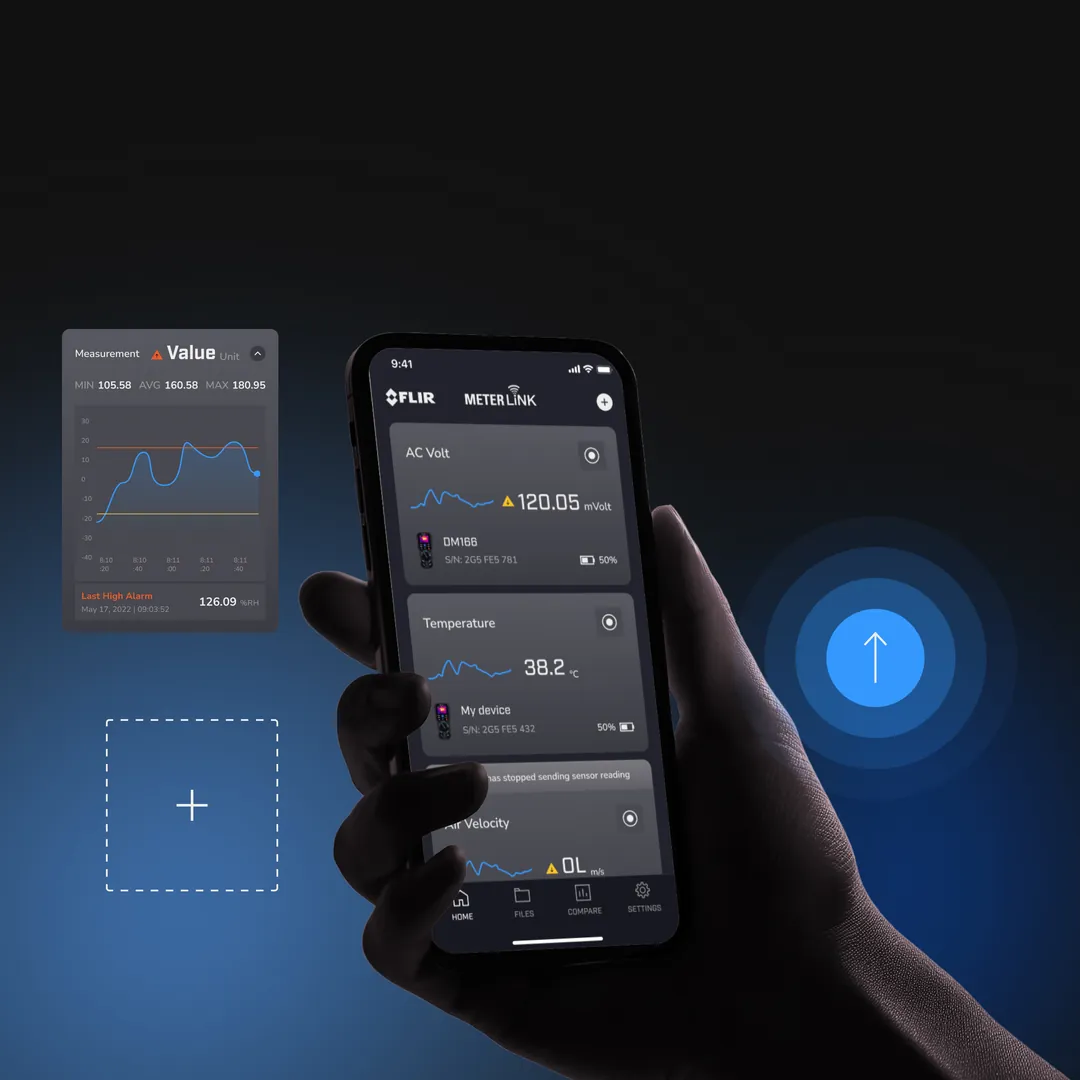
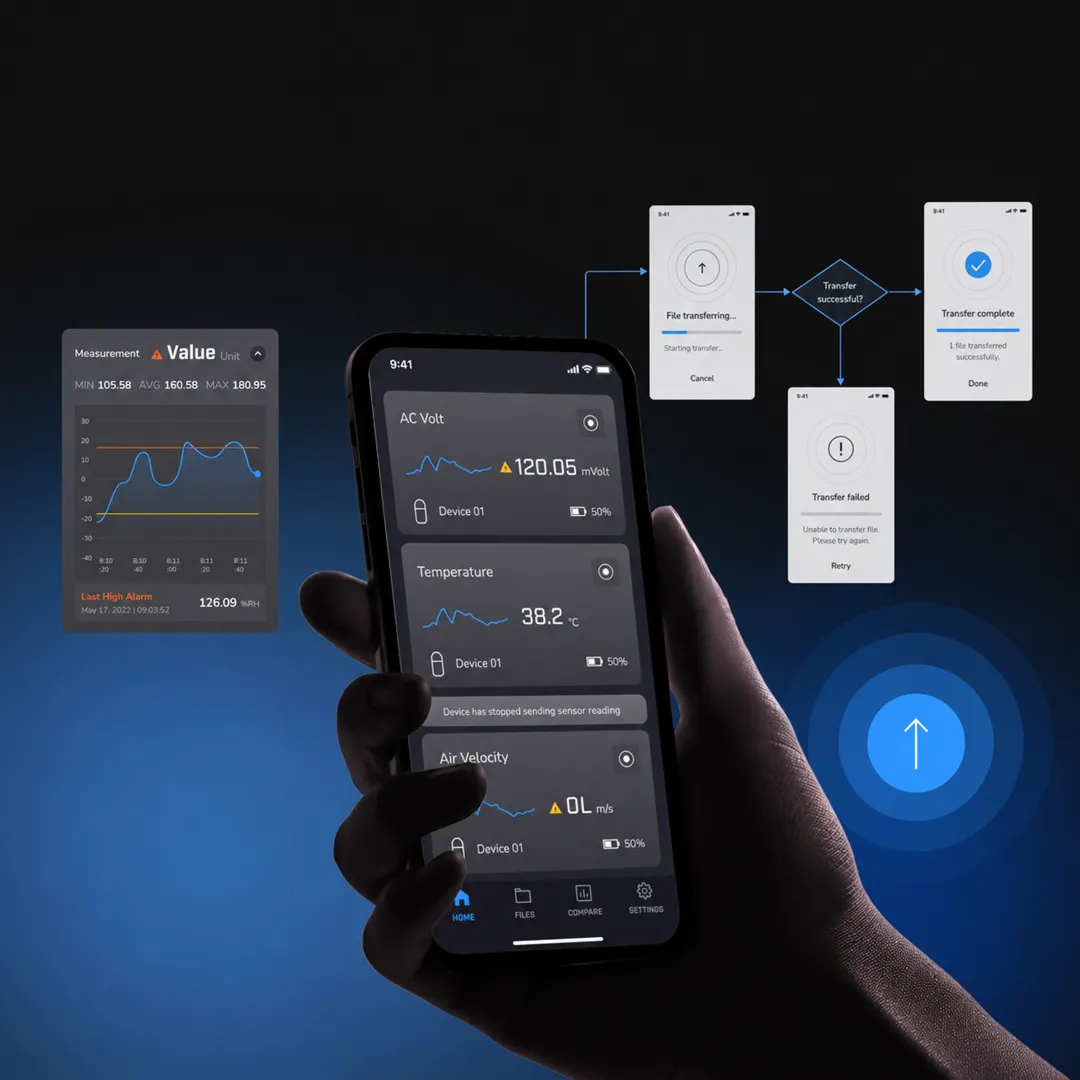
What we do: Office Power carousel (3 slides + KPIs); Mockups gets three new METERLiNK images
Office Power - AI product is now clickable and swaps the In-house panel to its own
carousel. Images compressed to 1080px webp (OP ~25KB, METERLiNK ~40KB from 3.9MB PNGs).

diff --git a/design/index.html b/design/index.html
@@ -426,6 +426,16 @@ section{padding:clamp(72px,10vw,140px) 0;scroll-margin-top:72px}
 .rs-t span{display:block;color:#3FC6F2}
 .rs-t.rs-white span{color:#fff}
 .rs-t.rs-violet span{color:#9C95F7}
+/* light artwork (Office Power): ink titles, indigo second line, KPI row under the title */
+.wwd-visual .rs[hidden]{display:none}
+.rs-light .rs-t{color:#1B2748}
+.rs-light .rs-t span{color:#3B55C4}
+.rs-light .rs-count{color:#1B2748}
+.rs-kpis{position:absolute;left:5.9%;top:21%;display:flex;gap:7.5cqi;color:#1B2748}
+.rs-kpis b{display:block;font-size:max(18px,6.6cqi);font-weight:600;line-height:1;letter-spacing:-.01em;white-space:nowrap}
+.rs-kpis small{margin-left:.25em;font-size:max(9px,2.3cqi);font-weight:600}
+.rs-kpis span{display:block;margin-top:.55em;font-size:max(9px,2.3cqi);font-weight:500;color:#6B7590;white-space:nowrap}
+html[lang="zh-Hant"] .rs-kpis span{font-size:max(9px,2.9cqi)}
 .rs-pains{list-style:none;margin:0;padding:0}
 .rs-pains li{position:absolute;width:42.7%;height:7.7%;display:grid;place-items:center;text-align:center;
   color:#fff;font-weight:600;font-size:max(9px,2.3cqi);line-height:1.1}
@@ -962,14 +972,19 @@ html[lang="zh-Hant"] .process-heading.kick{font-size:11px}
 <div class="rs-slide" aria-hidden="true" style="background:linear-gradient(#012e47,#01253b)"><div class="rs-art"><img src="assets/research-2.webp" alt="From the old app through user flows to the redesigned Genome Cache" width="1080" height="1080" loading="lazy"><p class="rs-t">Turn friction<span>into discovery.</span></p><ol class="rs-steps"><li style="left:19.7%">UX Research</li><li style="left:50%">Deep Focus</li><li style="left:80.2%">UI Design System</li></ol></div></div>
 <div class="rs-slide" aria-hidden="true" style="background:linear-gradient(#01263c,#002235)"><div class="rs-art"><img src="assets/research-3.webp" alt="The redesigned Genome Cache: quiz, scientist cards and rewards" width="1080" height="1080" loading="lazy"><p class="rs-t">Designed for<span>continued discovery.</span></p><div class="rs-stats"><div style="left:28.5%"><b>+40%</b><span>Time spent in app</span></div><div style="left:71.7%"><b>4.8</b><span>User CSAT score</span></div></div></div></div>
 </div><div class="rs-nav"><button type="button" class="rs-prev" aria-label="Previous slide"><svg viewBox="0 0 24 24" aria-hidden="true"><path d="M15 6l-6 6 6 6"/></svg></button><span class="rs-count" data-noi18n aria-live="polite">1 / 3</span><button type="button" class="rs-next" aria-label="Next slide"><svg viewBox="0 0 24 24" aria-hidden="true"><path d="M9 6l6 6-6 6"/></svg></button></div></div></figure><figure class="svc-media" id="svc-visual-1" aria-hidden="true"><div class="svc-image graphic rs" aria-roledescription="carousel" aria-label="FLIR METERLiNK design story"><div class="rs-stage">
-<div class="rs-slide on" aria-hidden="false" style="background:linear-gradient(#121212,#1d2b3e)"><div class="rs-art"><img src="assets/design-1.webp" alt="FLIR METERLiNK app held in hand with a measurement card" width="1080" height="1080"><p class="rs-t rs-white">Complex data.<span>Clear interfaces.</span></p></div></div>
-<div class="rs-slide" aria-hidden="true" style="background:linear-gradient(#101111,#163056)"><div class="rs-art"><img src="assets/design-2.webp" alt="METERLiNK UI components laid out as a kit" width="1080" height="1080" loading="lazy"><p class="rs-t rs-white">Many components.<span>One shared language.</span></p></div></div>
-</div><div class="rs-nav"><button type="button" class="rs-prev" aria-label="Previous slide"><svg viewBox="0 0 24 24" aria-hidden="true"><path d="M15 6l-6 6 6 6"/></svg></button><span class="rs-count" data-noi18n aria-live="polite">1 / 2</span><button type="button" class="rs-next" aria-label="Next slide"><svg viewBox="0 0 24 24" aria-hidden="true"><path d="M9 6l6 6-6 6"/></svg></button></div></div></figure><figure class="svc-media" id="svc-visual-2" aria-hidden="true"><div class="svc-image graphic rs" aria-roledescription="carousel" aria-label="Weekday app story"><div class="rs-stage">
+<div class="rs-slide on" aria-hidden="false" style="background:linear-gradient(#0f0f0f,#1f2f48)"><div class="rs-art"><img src="assets/design-1.webp" alt="FLIR METERLiNK app held in hand, with a measurement card and the file transfer flow" width="1080" height="1080"><p class="rs-t rs-white">Complex data.<span>Clear interfaces.</span></p></div></div>
+<div class="rs-slide" aria-hidden="true" style="background:linear-gradient(#101010,#123161)"><div class="rs-art"><img src="assets/design-2.webp" alt="METERLiNK UI components laid out as a kit" width="1080" height="1080" loading="lazy"><p class="rs-t rs-white">Many components.<span>One shared language.</span></p></div></div>
+<div class="rs-slide" aria-hidden="true" style="background:linear-gradient(#101010,#1a3c6b)"><div class="rs-art"><img src="assets/design-3.webp" alt="METERLiNK on phone and tablet with the same cards and charts" width="1080" height="1080" loading="lazy"><p class="rs-t rs-white">Different screens.<span>One coherent experience.</span></p></div></div>
+</div><div class="rs-nav"><button type="button" class="rs-prev" aria-label="Previous slide"><svg viewBox="0 0 24 24" aria-hidden="true"><path d="M15 6l-6 6 6 6"/></svg></button><span class="rs-count" data-noi18n aria-live="polite">1 / 3</span><button type="button" class="rs-next" aria-label="Next slide"><svg viewBox="0 0 24 24" aria-hidden="true"><path d="M9 6l6 6-6 6"/></svg></button></div></div></figure><figure class="svc-media" id="svc-visual-2" aria-hidden="true"><div class="svc-image graphic rs" data-rs="weekday" aria-roledescription="carousel" aria-label="Weekday app story"><div class="rs-stage">
 <div class="rs-slide on" aria-hidden="false" style="background:linear-gradient(#1f183d,#130f24)"><div class="rs-art"><img src="assets/weekday-1.webp" alt="Office floor map with desk conflicts" width="1080" height="1080"><p class="rs-t rs-violet">Hybrid team.<span>Not enough desks.</span></p></div></div>
 <div class="rs-slide" aria-hidden="true" style="background:linear-gradient(#1f183d,#151028)"><div class="rs-art"><img src="assets/weekday-2.webp" alt="Booking a desk in the Weekday app" width="1080" height="1080" loading="lazy"><p class="rs-t rs-violet">Book a desk<span>before you arrive.</span></p></div></div>
 <div class="rs-slide" aria-hidden="true" style="background:linear-gradient(#1f183d,#120e23)"><div class="rs-art"><img src="assets/weekday-3.webp" alt="Every desk booked on the Weekday floor map" width="1080" height="1080" loading="lazy"><p class="rs-t rs-violet">Everyone<span>has a seat.</span></p></div></div>
+</div><div class="rs-nav"><button type="button" class="rs-prev" aria-label="Previous slide"><svg viewBox="0 0 24 24" aria-hidden="true"><path d="M15 6l-6 6 6 6"/></svg></button><span class="rs-count" data-noi18n aria-live="polite">1 / 3</span><button type="button" class="rs-next" aria-label="Next slide"><svg viewBox="0 0 24 24" aria-hidden="true"><path d="M9 6l6 6-6 6"/></svg></button></div></div><div class="svc-image graphic rs rs-light" data-rs="office" hidden aria-roledescription="carousel" aria-label="Office Power AI product story"><div class="rs-stage">
+<div class="rs-slide on" aria-hidden="false" style="background:linear-gradient(#e5ecf5,#e5edf5)"><div class="rs-art"><img src="assets/officepower-1.webp" alt="An AI employee drafts a PTO request and walks it through four steps" width="1080" height="1080" loading="lazy"><p class="rs-t">One message.<span>Four steps done.</span></p></div></div>
+<div class="rs-slide" aria-hidden="true" style="background:linear-gradient(#e2e8f4,#d6dadf)"><div class="rs-art"><img src="assets/officepower-2.webp" alt="The Office Power leave request app built on top of the AI office" width="1080" height="1080" loading="lazy"><p class="rs-t">Idea to live.<span>In 15 minutes.</span></p></div></div>
+<div class="rs-slide" aria-hidden="true" style="background:linear-gradient(#d5d9e1,#d0d4da)"><div class="rs-art"><img src="assets/officepower-3.webp" alt="A network of AI employees at their desks, linked to one server" width="1080" height="1080" loading="lazy"><p class="rs-t">Not a chatbot.<span>An AI workforce.</span></p><div class="rs-kpis"><div><b>15<small>min</small></b><span>to launch</span></div><div><b>24/7</b><span>always on</span></div><div><b>100<small>%</small></b><span>budget control</span></div></div></div></div>
 </div><div class="rs-nav"><button type="button" class="rs-prev" aria-label="Previous slide"><svg viewBox="0 0 24 24" aria-hidden="true"><path d="M15 6l-6 6 6 6"/></svg></button><span class="rs-count" data-noi18n aria-live="polite">1 / 3</span><button type="button" class="rs-next" aria-label="Next slide"><svg viewBox="0 0 24 24" aria-hidden="true"><path d="M9 6l6 6-6 6"/></svg></button></div></div></figure></div>
-      <ol class="svc-list"><li class="svc active" id="service-research"><h3><button class="svc-toggle" id="svc-toggle-0" aria-expanded="true" aria-controls="svc-detail-0"><span class="svc-title"><span class="svc-number" aria-hidden="true">01</span><span>Research</span></span></button></h3><div class="svc-detail" id="svc-detail-0" role="region" aria-labelledby="svc-toggle-0"><p>Find the right problem to solve. We explore user needs, review existing experiences and test assumptions to help teams decide what matters most—and where to go next.</p><ul class="svc-offerings" aria-label="Research services"><li><button type="button" class="rs-jump" data-slide="0">UX Research</button></li><li><button type="button" class="rs-jump" disabled aria-disabled="true">Usability Testing</button></li></ul></div></li><li class="svc" id="service-ui"><h3><button class="svc-toggle" id="svc-toggle-1" aria-expanded="false" aria-controls="svc-detail-1"><span class="svc-title"><span class="svc-number" aria-hidden="true">02</span><span>Design</span></span></button></h3><div class="svc-detail" id="svc-detail-1" role="region" aria-labelledby="svc-toggle-1" hidden><p>Make complex products feel simple. We turn insights into clear interfaces, reusable design systems and interactive prototypes, helping teams align on the experience before development begins.</p><ul class="svc-offerings" aria-label="Design services"><li><button type="button" class="rs-jump" data-slide="0">Mockups</button></li><li><button type="button" class="rs-jump" disabled aria-disabled="true">Prototype</button></li></ul></div></li><li class="svc" id="service-inhouse"><h3><button class="svc-toggle" id="svc-toggle-2" aria-expanded="false" aria-controls="svc-detail-2"><span class="svc-title"><span class="svc-number" aria-hidden="true">03</span><span>In-house</span></span></button></h3><div class="svc-detail" id="svc-detail-2" role="region" aria-labelledby="svc-toggle-2" hidden><p>We design for our own teams, too. From the BCT Website and presentation decks to Weekday, our work spans brand communication and tools for everyday work. We also explore AI products through Office Power, bringing AI agents into the workplace.</p><ul class="svc-offerings" aria-label="In-house services"><li><button type="button" class="rs-jump" data-slide="0">Weekday App</button></li><li><button type="button" class="rs-jump" disabled aria-disabled="true">Office Power - AI product</button></li></ul></div></li></ol>
+      <ol class="svc-list"><li class="svc active" id="service-research"><h3><button class="svc-toggle" id="svc-toggle-0" aria-expanded="true" aria-controls="svc-detail-0"><span class="svc-title"><span class="svc-number" aria-hidden="true">01</span><span>Research</span></span></button></h3><div class="svc-detail" id="svc-detail-0" role="region" aria-labelledby="svc-toggle-0"><p>Find the right problem to solve. We explore user needs, review existing experiences and test assumptions to help teams decide what matters most—and where to go next.</p><ul class="svc-offerings" aria-label="Research services"><li><button type="button" class="rs-jump" data-slide="0">UX Research</button></li><li><button type="button" class="rs-jump" disabled aria-disabled="true">Usability Testing</button></li></ul></div></li><li class="svc" id="service-ui"><h3><button class="svc-toggle" id="svc-toggle-1" aria-expanded="false" aria-controls="svc-detail-1"><span class="svc-title"><span class="svc-number" aria-hidden="true">02</span><span>Design</span></span></button></h3><div class="svc-detail" id="svc-detail-1" role="region" aria-labelledby="svc-toggle-1" hidden><p>Make complex products feel simple. We turn insights into clear interfaces, reusable design systems and interactive prototypes, helping teams align on the experience before development begins.</p><ul class="svc-offerings" aria-label="Design services"><li><button type="button" class="rs-jump" data-slide="0">Mockups</button></li><li><button type="button" class="rs-jump" disabled aria-disabled="true">Prototype</button></li></ul></div></li><li class="svc" id="service-inhouse"><h3><button class="svc-toggle" id="svc-toggle-2" aria-expanded="false" aria-controls="svc-detail-2"><span class="svc-title"><span class="svc-number" aria-hidden="true">03</span><span>In-house</span></span></button></h3><div class="svc-detail" id="svc-detail-2" role="region" aria-labelledby="svc-toggle-2" hidden><p>We design for our own teams, too. From the BCT Website and presentation decks to Weekday, our work spans brand communication and tools for everyday work. We also explore AI products through Office Power, bringing AI agents into the workplace.</p><ul class="svc-offerings" aria-label="In-house services"><li><button type="button" class="rs-jump" data-slide="0" data-rs="weekday">Weekday App</button></li><li><button type="button" class="rs-jump" data-slide="0" data-rs="office">Office Power - AI product</button></li></ul></div></li></ol>
     </div>
   </div>
 </section>
@@ -1194,8 +1209,10 @@ html[lang="zh-Hant"] .process-heading.kick{font-size:11px}
   });
   document.querySelectorAll('button.rs-jump:not(:disabled)').forEach(b => b.addEventListener('click', () => {
     const fig = document.getElementById('svc-visual-' + b.closest('.svc-detail').id.split('-').pop());
-    const rs = fig && fig.querySelector('.rs');
+    const all = fig ? [...fig.querySelectorAll('.rs')] : [];
+    const rs = all.find(r => r.dataset.rs === b.dataset.rs) || all[0];
     if (!rs) return;
+    all.forEach(r => { r.hidden = r !== rs; });
     rsCtl.get(rs)(+b.dataset.slide || 0);
     if (matchMedia('(max-width:760px)').matches) rs.scrollIntoView({behavior:'smooth', block:'center'});
   }));

diff --git a/i18n.js b/i18n.js
@@ -519,12 +519,24 @@
     "Clear interfaces.": "清晰的介面。",
     "Many components.": "元件再多，",
     "One shared language.": "說同一種語言。",
+    "Different screens.": "螢幕不同，",
+    "One coherent experience.": "體驗始終如一。",
     "Hybrid team.": "混合辦公，",
     "Not enough desks.": "座位不夠。",
     "Book a desk": "到公司之前，",
     "before you arrive.": "先訂好座位。",
     "Everyone": "每個人",
     "has a seat.": "都有位子坐。",
+    "One message.": "一句話，",
+    "Four steps done.": "四個步驟全搞定。",
+    "Idea to live.": "從想法到上線，",
+    "In 15 minutes.": "只要 15 分鐘。",
+    "Not a chatbot.": "不只是聊天機器人，",
+    "An AI workforce.": "是一整支 AI 團隊。",
+    "to launch": "完成上線",
+    "always on": "全天候運作",
+    "budget control": "預算掌控",
+    "min": "分鐘",
   };
 
   const KEY = "bct-lang";
